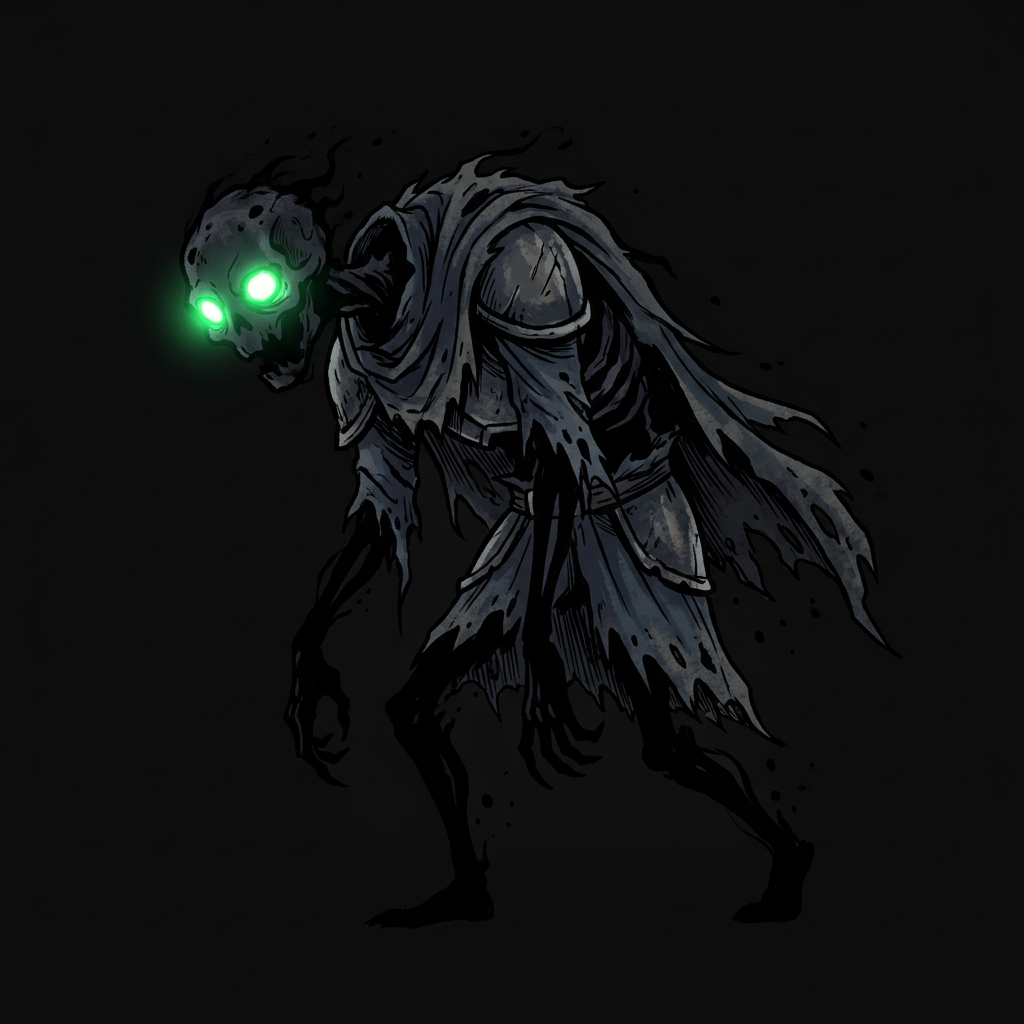
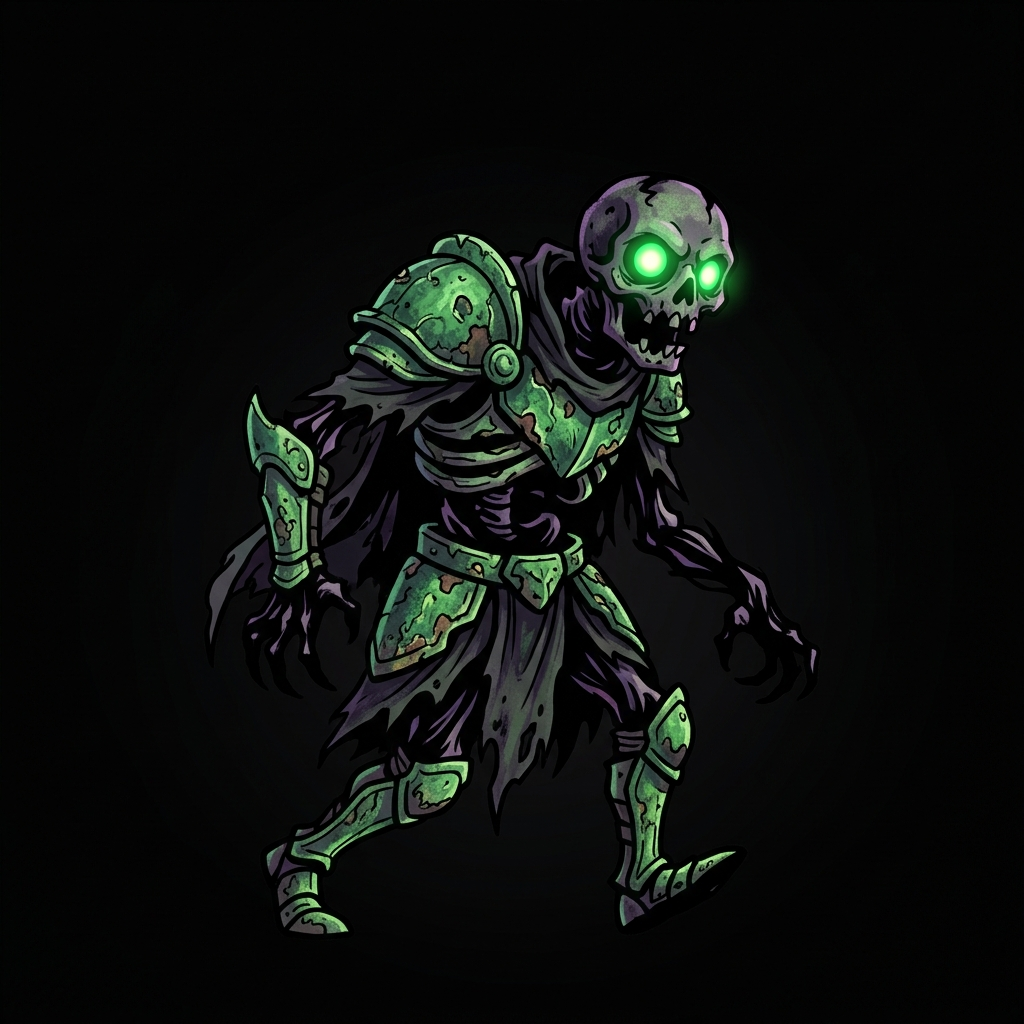
Update enemy assets to vibrant versions and remove heart drops in engine.js

Changed region(s): [[0.1562, 0.1562, 0.875, 0.9375], [0.6875, 0.8125, 0.7188, 0.8438]]

diff --git a/public/game/engine.js b/public/game/engine.js
@@ -167,10 +167,6 @@ function updateProjectiles() {
                 p.active = false;
                 if (enemy.health <= 0) {
                     enemy.active = false;
-                    drops.push({
-                        x: enemy.x + enemy.width/2 - 25, y: enemy.y + enemy.height/2 - 25,
-                        width: 50, height: 50, type: 'heart', active: true
-                    });
                 }
             }
         }
@@ -491,13 +487,18 @@ function draw() {
             if (player.x + player.width/2 < e.x + e.width/2) ctx.scale(-1, 1);
         }
 
-        ctx.globalCompositeOperation = 'screen';
+        // Standard composite mode for vibrant sprites
+        ctx.globalCompositeOperation = 'source-over';
         
         if (e.isHit) {
             ctx.filter = 'brightness(5) saturate(0)';
         } else {
-            ctx.shadowBlur = 15;
+            ctx.shadowBlur = 20;
             ctx.shadowColor = (e.type === 'spellcaster') ? '#ff00ff' : '#00ff66';
+            // Optional: add a slight white outline effect for even more clarity
+            ctx.strokeStyle = 'rgba(255,255,255,0.3)';
+            ctx.lineWidth = 2;
+            ctx.strokeRect(-e.width/2, -e.height/2, e.width, e.height);
         }
         
         ctx.drawImage(targetImg, -e.width/2, -e.height/2, e.width, e.height);
